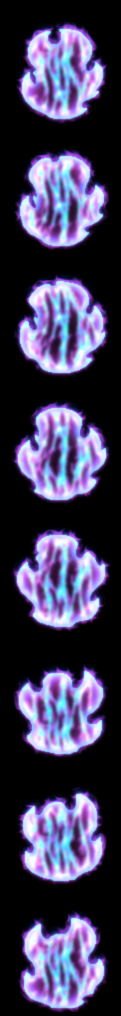
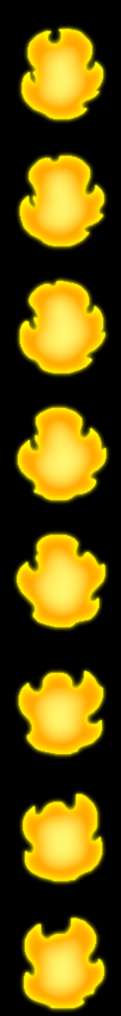
Updated some png's and files
Small push to merge

diff --git a/Transformations/Patreon/SSJ5/SSJ5Transformation.cs b/Transformations/Patreon/SSJ5/SSJ5Transformation.cs
@@ -31,8 +31,8 @@ namespace DBT.Transformations.Patreon.SSJ5
     {            
         public SSJ5Appearance() : base(
             new AuraAppearance(new AuraAnimationInformation(typeof(SSJ5Transformation), 8, 3, BlendState.Additive, 1f, true),
-                new LightingAppearance(new float[] { 1.475f, 1.475f, 1.475f })),
-            new HairAppearance(Color.White), Color.Red, new Color(255, 57, 74))
+                new LightingAppearance(new float[] { 2.11f, 1.86f, 0.44f })),//1.475f, 1.475f, 1.475f white
+            new HairAppearance(Color.White), Color.Red, new Color(211, 186, 44))
         {
         }
     }
